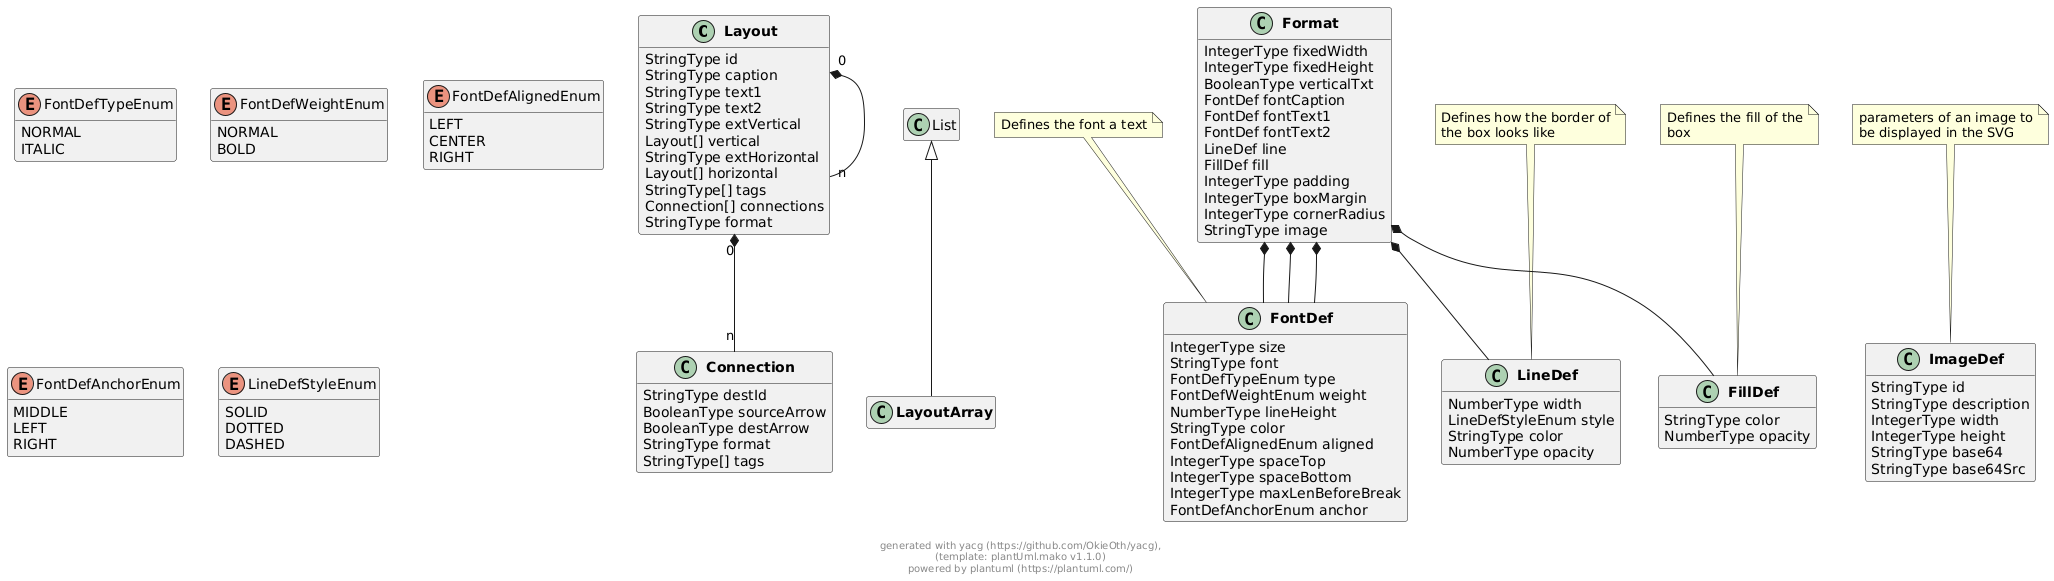
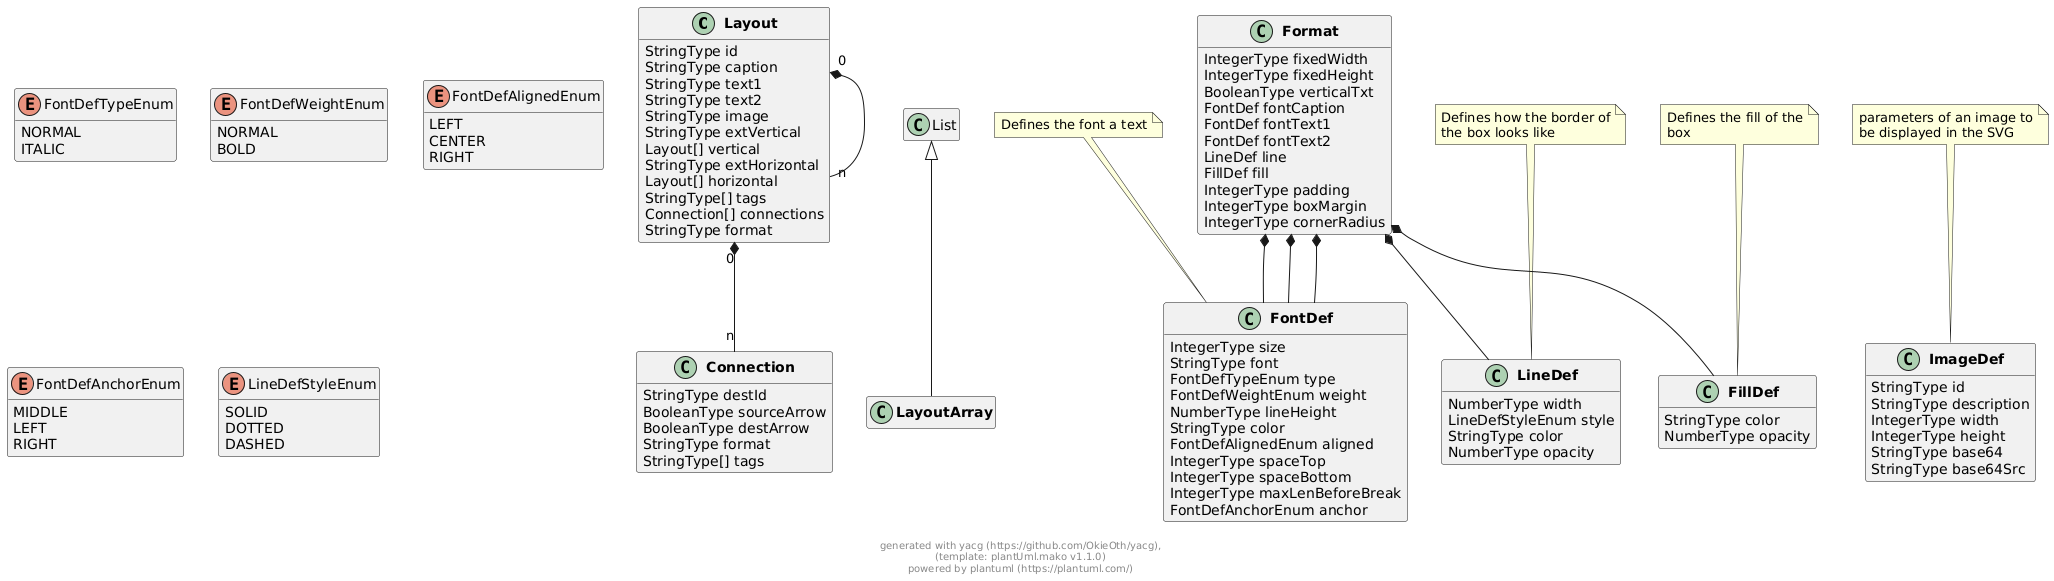
optimized boxes model for easier image definition

Changed region(s): [[0.5609, 0.0, 0.6855, 0.4337], [0.3116, 0.0, 0.4051, 0.4337]]

diff --git a/pkg/types/boxes/boxesdoc.go b/pkg/types/boxes/boxesdoc.go
@@ -148,6 +148,8 @@ type LayoutElement struct {
     // Second additional text
     Text2 string  `yaml:"text2"`
 
+    Image *ImageContainer  `yaml:"image,omitempty"`
+
     Vertical *LayoutElemContainer  `yaml:"vertical,omitempty"`
 
     Horizontal *LayoutElemContainer  `yaml:"horizontal,omitempty"`
@@ -220,6 +222,7 @@ func CopyLayoutElement(src *LayoutElement) *LayoutElement {
     ret.Caption = src.Caption
     ret.Text1 = src.Text1
     ret.Text2 = src.Text2
+    ret.Image = CopyImageContainer(src.Image)
     ret.Vertical = CopyLayoutElemContainer(src.Vertical)
     ret.Horizontal = CopyLayoutElemContainer(src.Horizontal)
     ret.X = src.X
@@ -325,9 +328,6 @@ type BoxFormat struct {
 
     Fill *types.FillDef  `yaml:"fill,omitempty"`
 
-    // ID of an image to use
-    Image *string  `yaml:"image,omitempty"`
-
     // Minimum margin between boxes
     MinBoxMargin int  `yaml:"minBoxMargin"`
 
@@ -354,7 +354,6 @@ func CopyBoxFormat(src *BoxFormat) *BoxFormat {
     ret.Line = types.CopyLineDef(src.Line)
     ret.CornerRadius = src.CornerRadius
     ret.Fill = types.CopyFillDef(src.Fill)
-    ret.Image = src.Image
     ret.MinBoxMargin = src.MinBoxMargin
     ret.FixedWidth = src.FixedWidth
     ret.FixedHeight = src.FixedHeight
@@ -459,6 +458,43 @@ func CopyConnectionNode(src *ConnectionNode) *ConnectionNode {
     for _, e := range src.Edges {
         ret.Edges = append(ret.Edges, e)
     }
+
+    return &ret
+}
+
+
+
+
+
+type ImageContainer struct {
+
+    // X position of the element
+    X int  `yaml:"x"`
+
+    // Y position of the element
+    Y int  `yaml:"y"`
+
+    // Width of the container
+    Width int  `yaml:"width"`
+
+    // Height of the container
+    Height int  `yaml:"height"`
+
+    // reference to the globally declared image
+    ImgId *string  `yaml:"imgId,omitempty"`
+}
+
+
+func CopyImageContainer(src *ImageContainer) *ImageContainer {
+    if src == nil {
+        return nil
+    }
+    var ret ImageContainer
+    ret.X = src.X
+    ret.Y = src.Y
+    ret.Width = src.Width
+    ret.Height = src.Height
+    ret.ImgId = src.ImgId
 
     return &ret
 }

diff --git a/pkg/types/boxes/boxestype_impl.go b/pkg/types/boxes/boxestype_impl.go
@@ -273,15 +273,19 @@ func (b *LayoutElement) Draw(drawing types.Drawing) error {
 			VerticalTxt:  b.Format.VerticalTxt,
 			CornerRadius: b.Format.CornerRadius,
 		}
-		if b.Format.Image == nil {
-			if err := drawing.DrawRectWithText(b.Id, b.Caption, b.Text1, b.Text2, b.X, b.Y, b.Width, b.Height, f); err != nil {
-				return fmt.Errorf("Error drawing element %s: %w", b.Id, err)
-			}
-		} else {
-			if err := drawing.DrawPng(b.X, b.Y, *b.Format.Image); err != nil {
-				return fmt.Errorf("Error drawing image %s: %w", b.Id, err)
-			}
+		if err := drawing.DrawRectWithText(b.Id, b.Caption, b.Text1, b.Text2, b.X, b.Y, b.Width, b.Height, f); err != nil {
+			return fmt.Errorf("Error drawing element %s: %w", b.Id, err)
 		}
+		// TODO
+		// if b.Format.Image == nil {
+		// 	if err := drawing.DrawRectWithText(b.Id, b.Caption, b.Text1, b.Text2, b.X, b.Y, b.Width, b.Height, f); err != nil {
+		// 		return fmt.Errorf("Error drawing element %s: %w", b.Id, err)
+		// 	}
+		// } else {
+		// 	if err := drawing.DrawPng(b.X, b.Y, *b.Format.Image); err != nil {
+		// 		return fmt.Errorf("Error drawing image %s: %w", b.Id, err)
+		// 	}
+		// }
 	}
 	if b.Vertical != nil {
 		for _, elem := range b.Vertical.Elems {

diff --git a/pkg/types/boxes/boxes.go b/pkg/types/boxes/boxes.go
@@ -90,6 +90,9 @@ type Layout struct {
     // Second additional text
     Text2 string  `yaml:"text2"`
 
+    // Reference to an image that should be displayed, needs to be declared in the global image section
+    Image *string  `yaml:"image,omitempty"`
+
     // If set, then the content for 'vertical' attrib is loaded from an external file
     ExtVertical *string  `yaml:"extVertical,omitempty"`
 
@@ -128,6 +131,7 @@ func CopyLayout(src *Layout) *Layout {
     ret.Caption = src.Caption
     ret.Text1 = src.Text1
     ret.Text2 = src.Text2
+    ret.Image = src.Image
     ret.ExtVertical = src.ExtVertical
     ret.Vertical = make([]Layout, 0)
     for _, e := range src.Vertical {
@@ -187,9 +191,6 @@ type Format struct {
 
     // radius of the box corners in pixel
     CornerRadius *int  `yaml:"cornerRadius,omitempty"`
-
-    // ID of an image to use
-    Image *string  `yaml:"image,omitempty"`
 }
 
 
@@ -209,7 +210,6 @@ func CopyFormat(src *Format) *Format {
     ret.Padding = src.Padding
     ret.BoxMargin = src.BoxMargin
     ret.CornerRadius = src.CornerRadius
-    ret.Image = src.Image
 
     return &ret
 }

diff --git a/pkg/boxesimpl/boxesdocfactory.go b/pkg/boxesimpl/boxesdocfactory.go
@@ -54,7 +54,6 @@ func initBoxFormat(f *boxes.Format) boxes.BoxFormat {
 	padding := types.GlobalPadding
 	boxMargin := types.GlobalMinBoxMargin
 	var fixedHeight, fixedWidth, cornerRadius *int
-	var image *string
 	if f != nil {
 		fontCaption = f.FontCaption
 		fontText1 = f.FontText1
@@ -77,7 +76,6 @@ func initBoxFormat(f *boxes.Format) boxes.BoxFormat {
 		fixedHeight = f.FixedHeight
 		fixedWidth = f.FixedWidth
 		cornerRadius = f.CornerRadius
-		image = f.Image
 	}
 
 	return boxes.BoxFormat{
@@ -92,7 +90,6 @@ func initBoxFormat(f *boxes.Format) boxes.BoxFormat {
 		FixedHeight:  fixedHeight,
 		VerticalTxt:  verticalTxt,
 		CornerRadius: cornerRadius,
-		Image:        image,
 	}
 }
 
